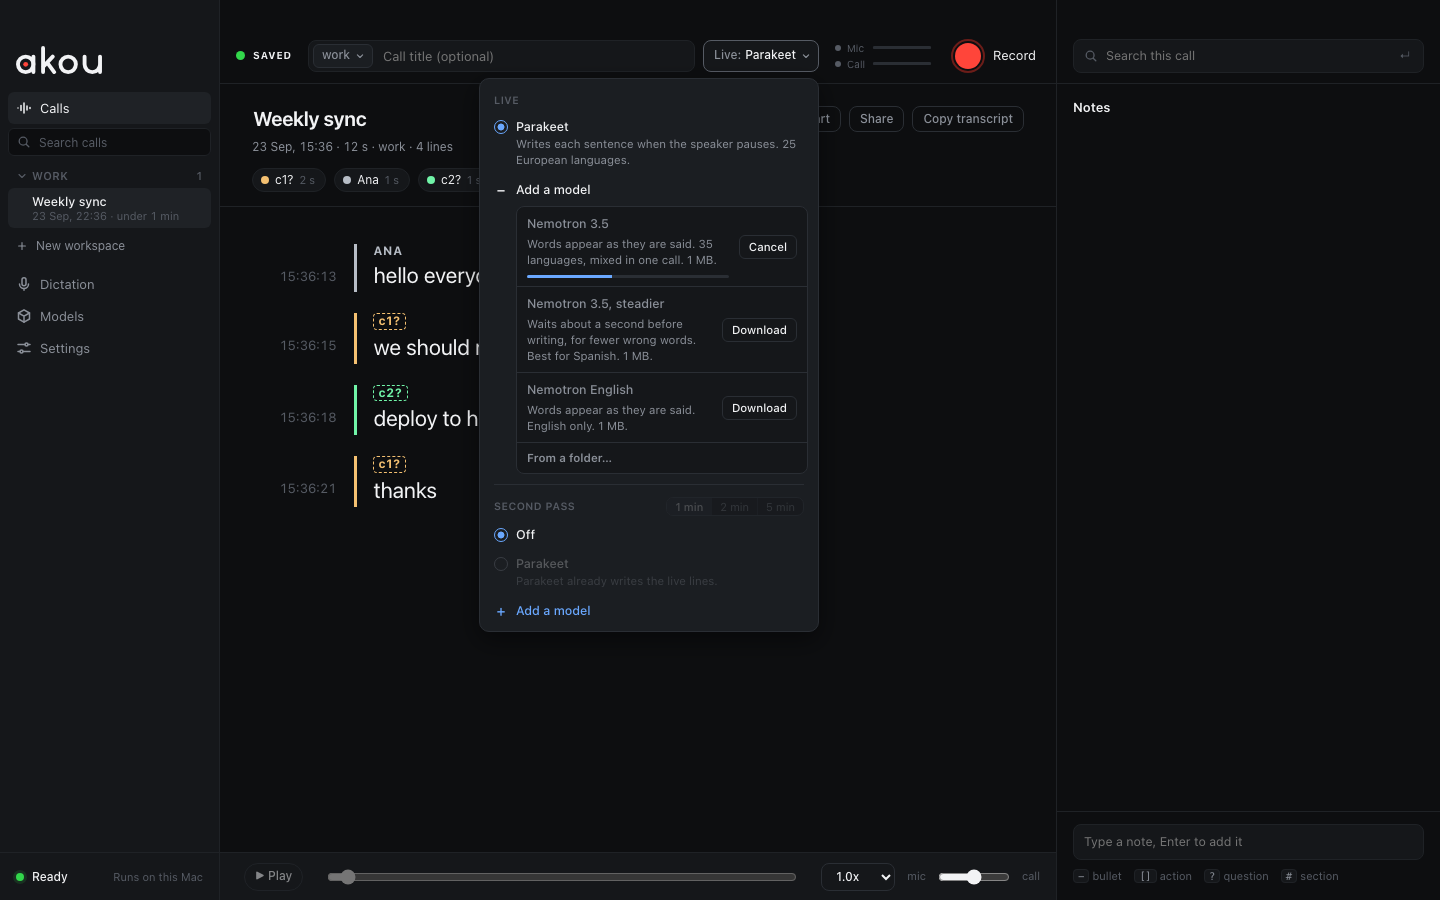
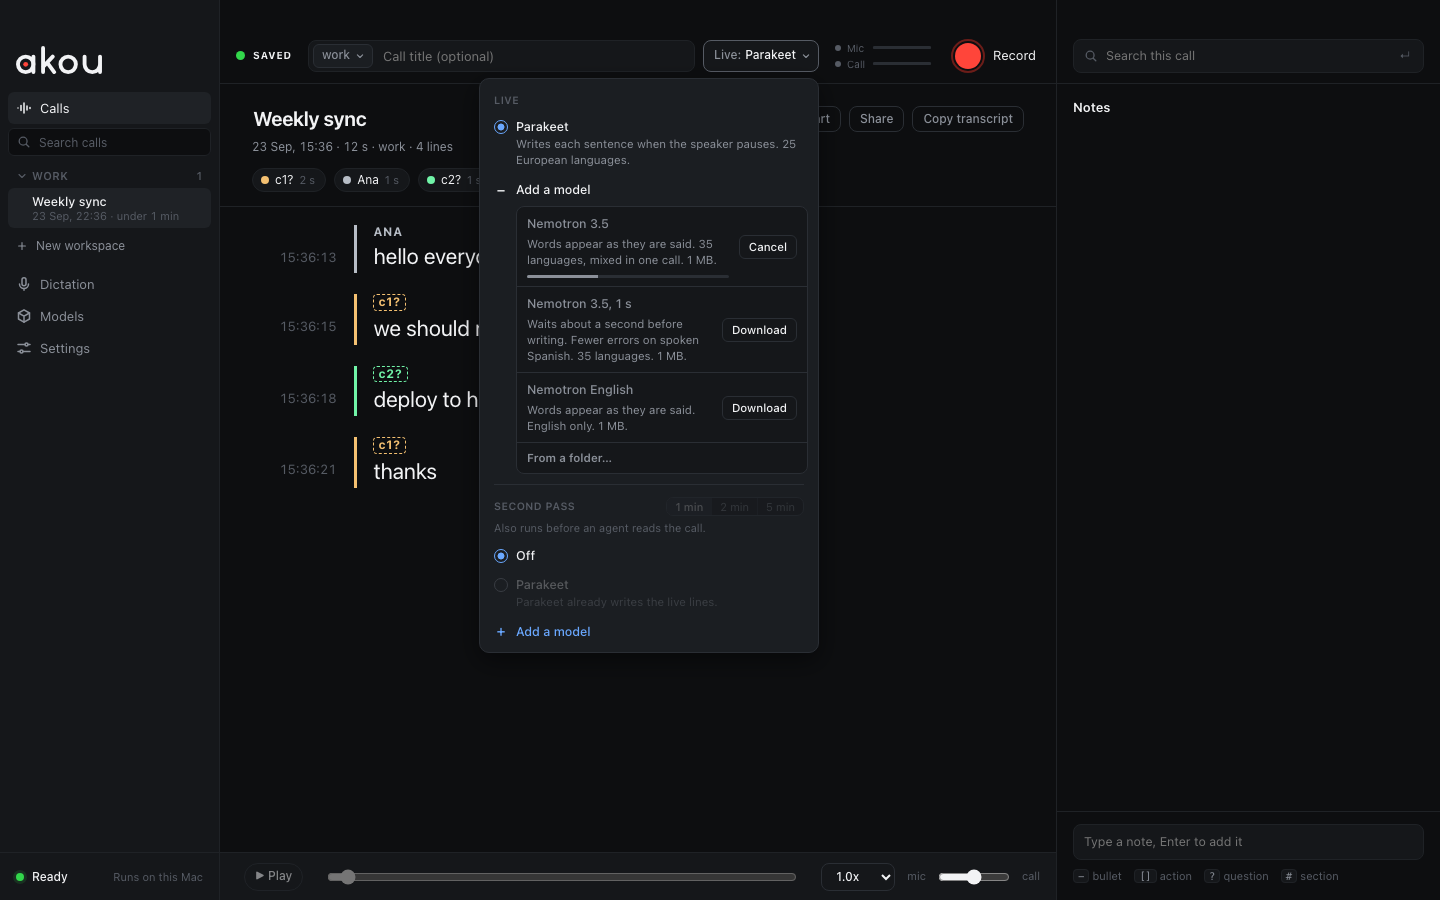
fix(window): name the 1120 ms Nemotron by its wait, not by a steadiness nobody measured (#209)
The panel called the 1120 ms Nemotron "Nemotron 3.5, steadier". Nothing backs that. No streaming tier ever takes back a word it wrote (0 retractions measured, `docs/research/asr-architecture.md` section 3.1), so the 1120 ms tier can't be steadier than the 560 ms one.

The row is now named by what it does differently:

- **Name:** "Nemotron 3.5, 1 s", its chunk.
- **Line:** "Waits about a second before writing. Fewer errors on spoken Spanish. 35 languages." The gain is on bp, spoken Spanish that isn't read aloud: 5.91 % WER against 7.19. On read Spanish (FLEURS) the two tiers tie.

The design file's copy of the row and W3.19 in `docs/ux/WINDOW.md` say the same. The two screenshots that showed the old line are retaken the same way as before: Playwright's Chromium, dark, macOS inset, tiny test models that read "1 MB". They now also show the "Also runs before an agent reads the call." line from #206.

| Adding a model | No model yet |
|---|---|
| ![adding](https://github.com/GeiserX/akou/blob/main/docs/ux/design-explorations/built/lmp4-adding-dark.png?raw=true) | ![no model](https://github.com/GeiserX/akou/blob/main/docs/ux/design-explorations/built/lmp4-no-model-dark.png?raw=true) |

If the owner prefers "steadier" after all, it's a one-line revert in `src/main/asr/model-text.ts`.

Follows #203.

diff --git a/tests/ui-live-picker.test.ts b/tests/ui-live-picker.test.ts
@@ -66,7 +66,7 @@ const RUNTIME = "llama-server-build";
 function rows(states: Partial<Record<string, State>> = {}): ModelView[] {
   return [
     row(NEM, "Nemotron 3.5", { live: "Words appear as they are said." }, states[NEM]),
-    row(STEADY, "Nemotron 3.5, steadier", { live: "Waits about a second." }, states[STEADY]),
+    row(STEADY, "Nemotron 3.5, 1 s", { live: "Waits about a second." }, states[STEADY]),
     row(PK, "Parakeet", { live: "Writes each sentence.", review: "Hears again." }, states[PK]),
     row(QWEN, "Qwen3-ASR", { review: "Rewrites the lines." }, states[QWEN], { short: "Qwen" }),
     row(RUNTIME, "", {}, states[RUNTIME], { size: 3e7 }),
@@ -111,7 +111,7 @@ describe("W3.19: the live panel's slots", () => {
     const live = slotRows(v, rows({ [STEADY]: "missing" }), "live");
     expect(live.map((r) => [r.id, r.name, r.line, r.state, r.checked])).toEqual([
       [NEM, "Nemotron 3.5", "Words appear as they are said.", "ready", true],
-      [STEADY, "Nemotron 3.5, steadier", "Waits about a second.", "missing", false],
+      [STEADY, "Nemotron 3.5, 1 s", "Waits about a second.", "missing", false],
       [PK, "Parakeet", "Writes each sentence.", "ready", false],
     ]);
     expect(live.some((r) => r.id === "auto")).toBe(false);
@@ -157,7 +157,7 @@ describe("W3.19: the live panel's slots", () => {
   test("a saved model that is not here: the note names what runs until it is", () => {
     const v = view({ setting: STEADY, live: [entry(NEM, true), entry(STEADY), entry(PK)] });
     expect(liveNote(v, rows({ [STEADY]: "missing" }))).toBe(
-      "Nemotron 3.5, steadier is not downloaded, so calls run Nemotron 3.5 until it is.",
+      "Nemotron 3.5, 1 s is not downloaded, so calls run Nemotron 3.5 until it is.",
     );
     expect(liveNote(view({}), rows())).toBeNull();
   });

diff --git a/src/main/asr/model-text.ts b/src/main/asr/model-text.ts
@@ -5,11 +5,11 @@
  * Models page, so every place says the same words. No imports, so the window's bundle can take it.
  *
  * The claims rest on the catalog and the measurements (docs/research/asr-architecture.md): the
- * language counts are each model's list; "fewer errors in spontaneous Spanish" for the 1120 ms
- * tier is the bp set (semi-spontaneous Spanish), 5.91 % WER against 7.19 at 560 ms, while read
- * Spanish (FLEURS) scores the same at both tiers; no tier retracts a word once written, so the line
- * claims no steadier words; "mixed in one call" is Nemotron 3.5, the one engine measured to switch
- * language mid-stream.
+ * language counts are each model's list; "fewer errors on spoken Spanish" for the 1120 ms tier is
+ * the bp set (semi-spontaneous Spanish), 5.91 % WER against 7.19 at 560 ms, while read Spanish
+ * (FLEURS) scores the same at both tiers; no tier retracts a word once written, so neither the
+ * name ("1 s", its chunk) nor the line claims steadier words; "mixed in one call" is Nemotron 3.5,
+ * the one engine measured to switch language mid-stream.
  */
 
 export interface ModelText {
@@ -27,9 +27,9 @@ export const MODEL_TEXT: Readonly<Record<string, ModelText>> = {
     lines: { live: "Words appear as they are said. 35 languages, mixed in one call." },
   },
   "nemotron-3.5-1120": {
-    name: "Nemotron 3.5, steadier",
+    name: "Nemotron 3.5, 1 s",
     lines: {
-      live: "Waits about a second before writing. Fewer errors in spontaneous Spanish. 35 languages.",
+      live: "Waits about a second before writing. Fewer errors on spoken Spanish. 35 languages.",
     },
   },
   "nemotron-en-560": {

diff --git a/docs/ux/design-explorations/lm-live-menu-slots.html b/docs/ux/design-explorations/lm-live-menu-slots.html
@@ -86,7 +86,7 @@ svg.i{width:12px;height:12px;stroke:var(--dim);fill:none;stroke-width:1.6;stroke
 <div class="add" style="color:var(--fg)"><span class="pl">−</span>Add a model</div>
 <div class="cat">
 <div class="c"><div class="tx"><span class="t">Nemotron 3.5</span><span class="l">Words appear as they are said. 35 languages, mixed in one call. 0.7 GB.</span><div class="bar"><i></i></div></div><span class="get">Cancel</span></div>
-<div class="c"><div class="tx"><span class="t">Nemotron 3.5, steadier</span><span class="l">Waits about a second before writing. Fewer errors in spontaneous Spanish. 35 languages. 0.7 GB.</span></div><span class="get">Download</span></div>
+<div class="c"><div class="tx"><span class="t">Nemotron 3.5, 1 s</span><span class="l">Waits about a second before writing. Fewer errors on spoken Spanish. 35 languages. 0.7 GB.</span></div><span class="get">Download</span></div>
 <div class="c"><div class="tx"><span class="t">Nemotron English</span><span class="l">Words appear as they are said. English only. 0.7 GB.</span></div><span class="get">Download</span></div>
 <div class="c"><div class="tx"><span class="t lnk">From a folder…</span></div></div>
 </div>

diff --git a/tests/live-setups.test.ts b/tests/live-setups.test.ts
@@ -267,7 +267,7 @@ describe("[akou-chp.23] what GET /models and the Models page show", () => {
     ]);
     // The name follows the Nemotron the languages pick.
     const es = liveView(ctx({ languages: ["es"] }), null, () => "ready");
-    expect(es.setups[0]?.title).toBe("Nemotron 3.5, steadier");
+    expect(es.setups[0]?.title).toBe("Nemotron 3.5, 1 s");
     const by = Object.fromEntries(v.setups.map((s) => [s.id, s]));
     expect(v.setups.filter((s) => s.selected).map((s) => s.id)).toEqual(["nemotron"]);
     expect(v.setups.filter((s) => s.running).map((s) => s.id)).toEqual(["parakeet"]);

diff --git a/docs/ux/WINDOW.md b/docs/ux/WINDOW.md
@@ -131,7 +131,7 @@ The workspace chip is a menu button: the name and a chevron. A click lists every
 | W3.20 | The workspace is a menu you switch with a click and add to, from the Record row or the sidebar; the last one picked holds across restarts and while other calls are opened | done | Owner: the chip was a text field that looked like a label, "I'm clicking and nothing is happening" | `tests/ui/window.test.ts` "the workspace menu": the list with its check, a pick, the name field's refusals, Escape, a new workspace as an empty group, the pick holding while other calls are opened and over a reload with calls on disk, the menu closing when the keyboard leaves it, and the sidebar field's refusal on screen under a full list; each fails when the pick yields to the call on screen, the empty groups are not drawn or the refusal is not scrolled into view. `tests/workspaces.e2e.test.ts` for `GET`/`POST /workspaces`, `akou workspaces`, `akou workspace add` and a restart | has |
 | W3.21 | No template picker in the window: notes use the automatic choice; the API, the CLI and the settings keep their template parameters | done | Owner: "not really interesting to set, the user can always explain at any point in time what it is" | `tests/ui/parity.test.ts` checks no picker exists and a scripted template still shows in the header | has |
 | W3.18 | The Mic and Call meters move like a level meter: drawn per animation frame, a fast rise to a louder level and a slow fall (24 dB/s), not a jump each time a level arrives. The indicator's two bars use the same rise and fall but move once per pushed level (four a second), with no frame and no timer: WebKit runs no animation frame in a page it does not count as shown, which on macOS is the never-activated indicator, and may run its timers only once a second there | done | Owner: the bars moved "oddly"; then the indicator's bars did not move at all while the window's did | `tests/meter.test.ts`: the rise, the fall, settling so the frames stop, a positive control on the fall, no timer for the window's meters, and the indicator's per-push steps. `tests/ui/desktop.test.ts` "[DK-F1] the indicator's level bars": both bars move in a page with frames and in one with no frame and no timer under a second (the second fails on per-frame or timer drawing) | has |
-| W3.19 | The live models in the Record row, where the template was: a "Live: <model>" button that opens one panel with two slots, as drawn in [the slots design](design-explorations/lm-live-menu-slots.html) ([two slots](design-explorations/lm-d1.png), [adding a model](design-explorations/lm-d2.png), [while recording](design-explorations/lm-4.png)). **Live** lists one radio row per downloaded model that can write the live transcript, by name with its one line (the catalog's, shared with the Models page): Nemotron 3.5, Nemotron 3.5 steadier, Nemotron English, Parakeet. There is no Automatic row; with `asr.live` `auto` the radio sits on the model `auto` runs. A pick saves the model's id as `asr.live` (`PATCH /config`, that key only). **Second pass** lists Off, then each downloaded model that can review the finished sentences (Qwen3-ASR, Parakeet), with a 1 min, 2 min, 5 min switch on its heading, dim while Off, and one dim line under it, "Also runs before an agent reads the call."; a pick saves `asr.review.model` or `asr.review.everySeconds`. A model that cannot run with the next call's live model is dim with the reason as its line. Each slot ends in "+ Add a model", which opens in place a box of the catalog models that fit the slot and are not here, each with its line, its size and Download; while one downloads, its bar and Cancel (the Models page's `POST /models/pull`, `POST /models/cancel` and wording). A model that lands joins its slot unpicked. The box ends in "From a folder…", a field for a folder's path that copies the models found there (`POST /models/import`, as `akou models import DIR`). A slot with nothing downloaded says "No model yet." with its box open, and the button reads "Live: no model". The button reads "Live: Nemotron 3.5", and "+ Qwen 2 min" beside it in the dim colour with a second pass on; it shrinks with an ellipsis rather than cover the state word. Record reads the settings again, after any save still on its way, and sends them as `live`, `review` and `reviewEvery` on `POST /calls`, so a change made in the CLI, the API or the Models page wins over what the button last read. When `asr.live` names a model that is not here, the radio sits on what calls run instead and a line says why. While a call records, the button shows what that call runs and is disabled; the call header's chip says the same ("Live: Nemotron 3.5 + Qwen 2 min"). Escape, a click outside or Tab out closes the panel; arrow keys move between its radio rows; a download keeps running when it closes; the panel scrolls inside rather than run past a 1024 by 700 window. Server mode has no Record row | done | Owner: "Instead of template, that should be where we select the live transcription model"; then "Mention the model", with the second pass an advanced choice whose timing is configurable, and each slot taking a model added from the panel itself | `tests/ui/live-picker.test.ts`: the Live slot by name with no Automatic row and the radio on what `auto` runs, a pick in `PATCH /config` and `POST /calls`, disabled with the running call's model and the header chip, Add a model's Download with bar and Cancel and the model joining unpicked, the no-model state, the Second pass slot and its switch in `PATCH /config` and `POST /calls` with Qwen on the button, its models dim with Parakeet live, From a folder…, nothing clipped at 1024 by 700 with Tab out closing, and a saved model that is not here; `tests/ui-live-picker.test.ts` for the rows and labels; `tests/live-setups.test.ts` fails when a model that fills a slot has no line. Each fails on its mutation | has |
+| W3.19 | The live models in the Record row, where the template was: a "Live: <model>" button that opens one panel with two slots, as drawn in [the slots design](design-explorations/lm-live-menu-slots.html) ([two slots](design-explorations/lm-d1.png), [adding a model](design-explorations/lm-d2.png), [while recording](design-explorations/lm-4.png)). **Live** lists one radio row per downloaded model that can write the live transcript, by name with its one line (the catalog's, shared with the Models page): Nemotron 3.5, Nemotron 3.5, 1 s, Nemotron English, Parakeet. There is no Automatic row; with `asr.live` `auto` the radio sits on the model `auto` runs. A pick saves the model's id as `asr.live` (`PATCH /config`, that key only). **Second pass** lists Off, then each downloaded model that can review the finished sentences (Qwen3-ASR, Parakeet), with a 1 min, 2 min, 5 min switch on its heading, dim while Off, and one dim line under it, "Also runs before an agent reads the call."; a pick saves `asr.review.model` or `asr.review.everySeconds`. A model that cannot run with the next call's live model is dim with the reason as its line. Each slot ends in "+ Add a model", which opens in place a box of the catalog models that fit the slot and are not here, each with its line, its size and Download; while one downloads, its bar and Cancel (the Models page's `POST /models/pull`, `POST /models/cancel` and wording). A model that lands joins its slot unpicked. The box ends in "From a folder…", a field for a folder's path that copies the models found there (`POST /models/import`, as `akou models import DIR`). A slot with nothing downloaded says "No model yet." with its box open, and the button reads "Live: no model". The button reads "Live: Nemotron 3.5", and "+ Qwen 2 min" beside it in the dim colour with a second pass on; it shrinks with an ellipsis rather than cover the state word. Record reads the settings again, after any save still on its way, and sends them as `live`, `review` and `reviewEvery` on `POST /calls`, so a change made in the CLI, the API or the Models page wins over what the button last read. When `asr.live` names a model that is not here, the radio sits on what calls run instead and a line says why. While a call records, the button shows what that call runs and is disabled; the call header's chip says the same ("Live: Nemotron 3.5 + Qwen 2 min"). Escape, a click outside or Tab out closes the panel; arrow keys move between its radio rows; a download keeps running when it closes; the panel scrolls inside rather than run past a 1024 by 700 window. Server mode has no Record row | done | Owner: "Instead of template, that should be where we select the live transcription model"; then "Mention the model", with the second pass an advanced choice whose timing is configurable, and each slot taking a model added from the panel itself | `tests/ui/live-picker.test.ts`: the Live slot by name with no Automatic row and the radio on what `auto` runs, a pick in `PATCH /config` and `POST /calls`, disabled with the running call's model and the header chip, Add a model's Download with bar and Cancel and the model joining unpicked, the no-model state, the Second pass slot and its switch in `PATCH /config` and `POST /calls` with Qwen on the button, its models dim with Parakeet live, From a folder…, nothing clipped at 1024 by 700 with Tab out closing, and a saved model that is not here; `tests/ui-live-picker.test.ts` for the rows and labels; `tests/live-setups.test.ts` fails when a model that fills a slot has no line. Each fails on its mutation | has |
 | W3.15 | Words for this call: an optional field beside the title (attendees, product names), sent as `vocab` on start, the window's equal of `akou start --vocab` | P2 | Parity: CLI, API and MCP take `--vocab` at start, the window cannot | Typing "Ben, Vercel" and Record starts a call whose `call.created` carries both words; the speaker popover suggests "Ben" (W8.3) | missing |
 
 ### 3.2 Pieces owned by DESKTOP.md and PROGRAMMABILITY.md
